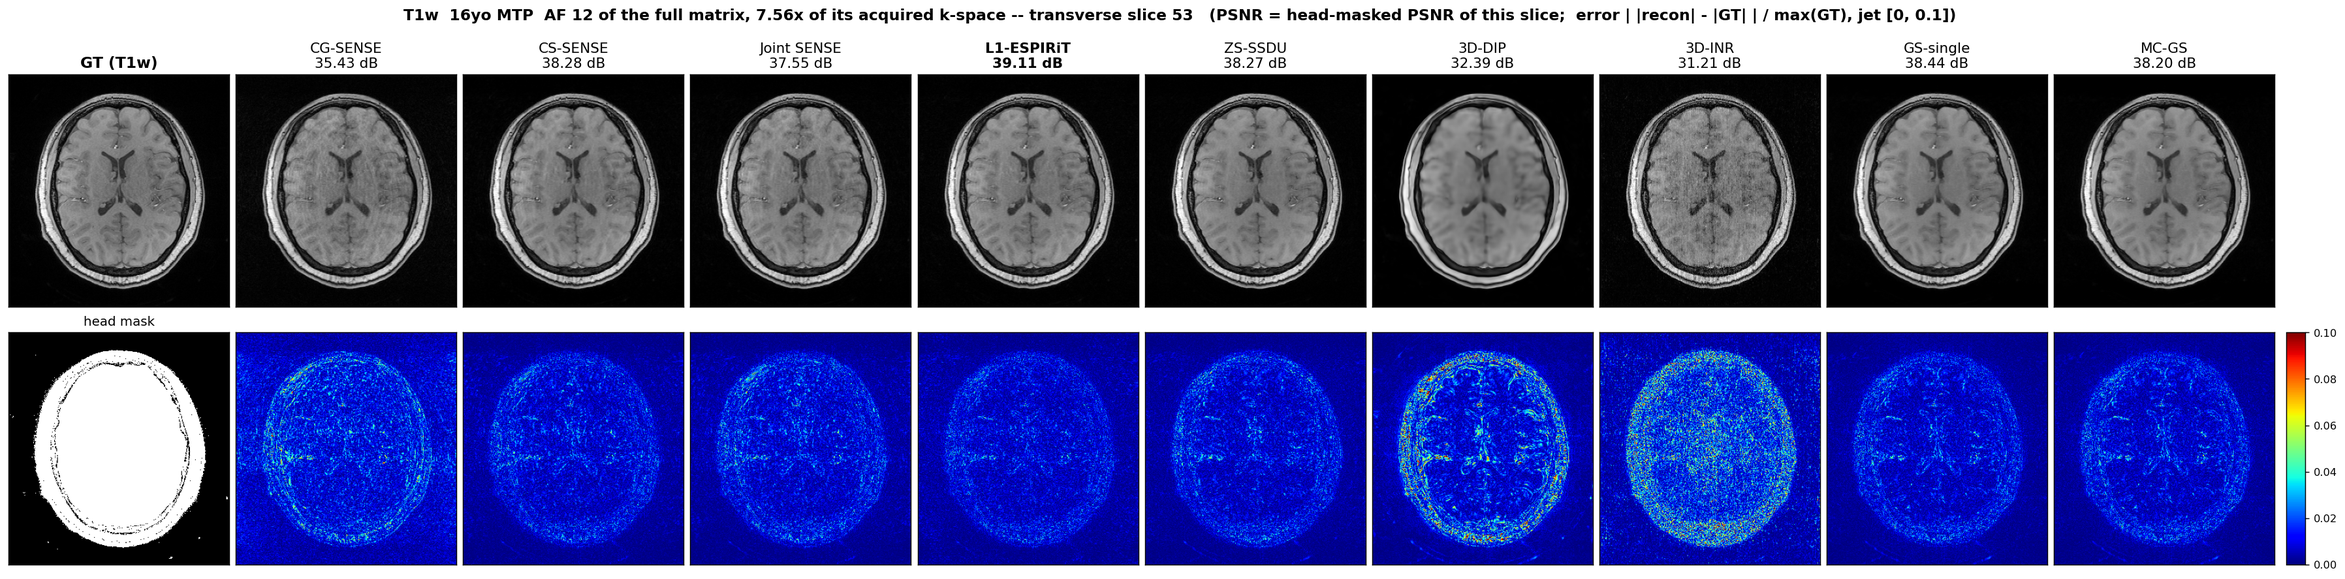
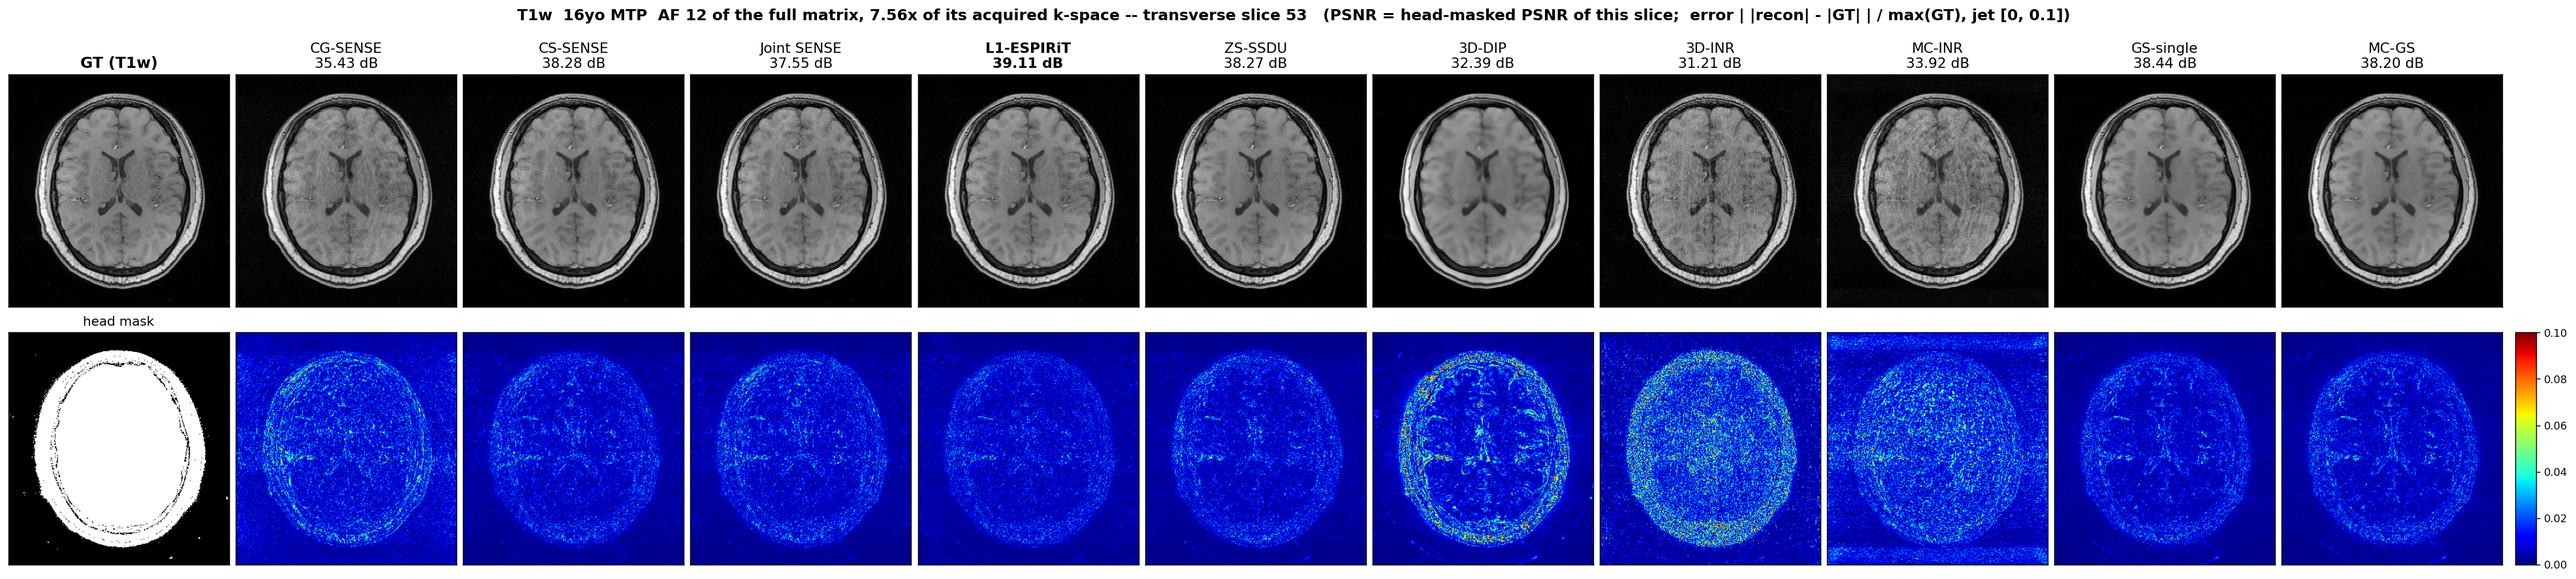
peds mtp af12: MC-INR in both tables and both figures; the topic README says ten arms
Head PSNR in the primary region: T1w 33.948, T2s 29.710 -- eighth of ten on both contrasts, above
3D-INR and 3D-DIP and below CG-SENSE, the position it also takes on the adult topics. Adding it
moved no bar: L1-ESPIRiT still sets all three T1w cells and GS-single all three T2s cells.

Both rescoring passes were re-run over all ten arms; the full-volume pass and each arm's own JSON
agree to 7e-6 over 100 values, so the primary table's numbers stand as before.

diff --git a/peds_tsc_mtp_af12_retro/scripts/fig_three_planes_compact.py b/peds_tsc_mtp_af12_retro/scripts/fig_three_planes_compact.py
@@ -3,7 +3,7 @@
 
   python scripts/fig_three_planes_compact.py --contrast T1w --slices <TRA> <COR> <SAG>
 
-Layout (user request 2026-09-11): per plane an image row (GT + the nine methods of fig_row_final.py) and an error
+Layout (user request 2026-09-11): per plane an image row (GT + the ten methods of fig_row_final.py) and an error
 row (|recon - GT| / max(GT), jet, fixed [0, 0.1]). The left cell of each error row is the sampling mask in that
 plane: the plane of the 3-D mask through the k-space centre, in the same orientation as the images (the readout,
 axis 0, is fully sampled, so the coronal and sagittal cuts are lines). Method names only above the top row; each
@@ -94,6 +94,7 @@ ARMS = [("cgsense", "CG-SENSE", R / f"recon/cgsense_{c}_complex.npy"),
         ("zsssdu", "ZS-SSDU", R / f"recon/zsssdu_{c}_complex.npy"),
         ("dip", "3D-DIP", R / f"recon/dip_{c}_complex.npy"),
         ("inr", "3D-INR", R / f"recon/inr_{c}_complex.npy"),
+        ("mcinr", "MC-INR", R / f"recon/mcinr_{c}_complex.npy"),
         (args.single_key, "GS-single", R / f"recon/{args.single_key}_{c}_mag.npy"),
         (args.mcgs_key, "MC-GS", R / f"recon/{args.mcgs_key}_{c}_mag.npy")]
 missing = [lab for _, lab, p in ARMS if p is None or not Path(p).exists()]

diff --git a/peds_tsc_mtp_af12_retro/README.md b/peds_tsc_mtp_af12_retro/README.md
@@ -1,4 +1,4 @@
-# 16-year-old TSC exam, 3D MTP Cartesian — stage 2: retrospective AF 12, nine-arm comparison
+# 16-year-old TSC exam, 3D MTP Cartesian — stage 2: retrospective AF 12, ten-arm comparison
 
 Opened 2026-09-13. Stage 1 (the reference k-space this study undersamples) is
 `../Peds_TSC_MTP_3D/`. Code: worktree `/data0/congcong/code/GS/mcgs_peds_wt`, branch `16yo-mtp`
@@ -79,6 +79,7 @@ zero target.
 | L1-ESPIRiT | the same k-space **plus** `bart pics -p data/pattern_union` | – |
 | ZS-SSDU | union in the DC block | Θ / Λ / Γ from Ω |
 | 3D-DIP, 3D-INR | union in the forward model | 95 / 5 from Ω |
+| MC-INR | union as the per-slice sampling plane, so Z enters as measured zeros | – |
 | GS-single, MC-GS | Ω as the mask, `known_zero_support: data/support_2d.h5` | – |
 
 Without the explicit `-p` pattern BART infers the pattern from nonzero entries and reads Z as
@@ -87,6 +88,26 @@ framework port: `known_zero_support` was added after the commit this branch was 
 it the trainer's estimator found nothing (`frac_z_used = 0.0000`) because the mask never lands outside
 the support. After the port, both channels report `frac_z_used = 0.3701` = 11702 / 31616 with
 `nonzero_in_z = 0` and `kz_energy = 0`.
+
+## The MC-INR arm (added 2026-09-14)
+
+The multi-contrast INR of Niessen et al. 2025 (MICCAI; reproduction repo
+`/data0/congcong/code/GS/mcinr_peds_wt`, branch `peds-mtp`), the same reproduction that ran on the
+adult T1+FLAIR topics, pointed at this line's data: one hash-grid network per readout position
+jointly outputs both contrasts, 200 epochs a slice, the paper's hyper-parameters unchanged, each
+contrast keeping its own ESPIRiT maps. It sees this topic's union mask, so the measured zeros reach
+it the way they reach every other arm. Nothing was tuned for this exam.
+
+Checks before the run: the repo's single-precision hybrid path (readout inverse FFT, then per-slice
+SENSE synthesis) reproduces this topic's ground truth to a maximum relative error of 2.0e-7 (T1w)
+and 2.5e-7 (T2s), and the peak of the acquired samples equals the peak of the fully sampled data, so
+the paper's normalisation and this topic's coincide (`mcinr/logs/check_real_data.json`). The run is
+320 slices in 945 s on a free A800; it is scored by the reproduction through **this topic's own**
+`t1t2_common.Pair`, after that gauge is re-checked against the recorded CG-SENSE row (`GAUGE OK`,
+`mcinr/logs/score_af12.json`), and registered by `scripts/register_mcinr_arm.py`.
+
+It lands eighth of ten on both contrasts — above 3D-DIP and 3D-INR, below CG-SENSE — which is where
+it landed on the adult topics too (eighth of eleven there).
 
 ## Evaluation
 
@@ -98,7 +119,7 @@ head, head HFEN as the LoG(σ 1.5) residual ratio, whole-volume PSNR / NMSE, sha
   (SPE 12..92). The outer 12 partitions at each end are the slab-oversampling margin, where the
   excitation profile has decayed to 6–10 % and the vendor exports nothing.
 - **Secondary table**: the full 104 partitions, taken from each arm's own JSON. `scripts/rescore.py --full`
-  reproduces it — 90 values across 18 arm/contrast pairs agree to 2e-4 — which is what licenses the
+  reproduces it — 100 values across 20 arm/contrast pairs agree to 7e-6 — which is what licenses the
   primary table's numbers.
 - `scripts/check_gauge.py` prints `GAUGE OK`: the shared module reproduces `recon_classical.py`'s nine
   metrics to the digit (differences 0.00e+00). `recon_classical.py` deliberately keeps its own
@@ -126,6 +147,7 @@ Retrospective AF 12.00 of the 31616-point phase-encode matrix (7.56x of the 1991
 | Joint SENSE (JTV) (λ 0.0007) | 36.898 | 0.9546 | 0.1139 | 39.888 | 0.00509 | 0.903 |
 | ZS-SSDU | 36.721 | 0.9609 | 0.1240 | 39.782 | 0.00521 | 0.994 |
 | CG-SENSE | 34.307 | 0.9339 | 0.1505 | 36.771 | 0.01043 | 0.871 |
+| MC-INR (Niessen 2025) | 33.948 | 0.9027 | 0.1576 | 35.905 | 0.01273 | 1.034 |
 | 3D-INR | 30.793 | 0.8453 | 0.1237 | 33.850 | 0.02043 | **1.393** |
 | 3D-DIP | 30.301 | 0.8678 | 0.2999 | 33.574 | 0.02178 | 0.667 |
 
@@ -140,6 +162,7 @@ Retrospective AF 12.00 of the 31616-point phase-encode matrix (7.56x of the 1991
 | Joint SENSE (JTV) (λ 0.0014) | 32.821 | 0.8911 | 0.2424 | 35.949 | 0.01298 | 0.794 |
 | CS-SENSE (TV, converged) (λ 0.001) | 32.763 | 0.8898 | 0.2438 | 35.904 | 0.01311 | 0.830 |
 | CG-SENSE | 30.598 | 0.8424 | 0.3179 | 32.877 | 0.02632 | 0.861 |
+| MC-INR (Niessen 2025) | 29.710 | 0.7981 | 0.3479 | 31.604 | 0.03529 | 1.017 |
 | 3D-DIP | 28.250 | 0.6997 | 0.4890 | 31.618 | 0.03518 | 0.465 |
 | 3D-INR | 28.012 | 0.6958 | 0.3080 | 29.855 | 0.05279 | **1.417** |
 
@@ -158,6 +181,7 @@ The same gauge over all 104 partitions, taken from each arm's own JSON; the cros
 | Joint SENSE (JTV) (λ 0.0007) | 36.982 | 0.9569 | 0.1138 | 40.292 | 0.00558 |
 | ZS-SSDU | 36.734 | 0.9623 | 0.1264 | 40.160 | 0.00575 |
 | CG-SENSE | 34.464 | 0.9376 | 0.1504 | 37.130 | 0.01156 |
+| MC-INR (Niessen 2025) | 34.174 | 0.9102 | 0.1555 | 36.249 | 0.01416 |
 | 3D-INR | 30.859 | 0.8521 | 0.1247 | 34.264 | 0.02236 |
 | 3D-DIP | 30.294 | 0.8677 | 0.3047 | 33.983 | 0.02385 |
 
@@ -172,6 +196,7 @@ The same gauge over all 104 partitions, taken from each arm's own JSON; the cros
 | ZS-SSDU | 32.941 | 0.8960 | 0.2430 | 36.689 | 0.01391 |
 | CS-SENSE (TV, converged) (λ 0.001) | 32.903 | 0.8908 | 0.2474 | 36.524 | 0.01445 |
 | CG-SENSE | 30.814 | 0.8421 | 0.3210 | 33.238 | 0.03080 |
+| MC-INR (Niessen 2025) | 29.930 | 0.7999 | 0.3519 | 31.984 | 0.04112 |
 | 3D-DIP | 28.424 | 0.7053 | 0.4950 | 32.321 | 0.03805 |
 | 3D-INR | 28.126 | 0.6930 | 0.3146 | 29.993 | 0.06502 |
 
@@ -201,7 +226,10 @@ The same gauge over all 104 partitions, taken from each arm's own JSON; the cros
    prior for this pair.
 4. **The learned arms are unremarkable here.** ZS-SSDU early-stops at epoch 43 (29 min, against 5 h on
    the adult AF16 data) and lands mid-table. 3D-DIP and 3D-INR are 6–8 dB behind, as in every earlier
-   topic; they are completeness, not competition.
+   topic, and MC-INR sits between them and CG-SENSE; they are completeness, not competition. MC-INR
+   is the only other arm here with a joint prior, and it is 3.9 dB (T1w) and 4.5 dB (T2s) behind
+   MC-GS, so nothing in this table argues that joint reconstruction as such fails on this pair —
+   only that a shared-geometry prior buys nothing over the same method run per contrast.
 5. The recipe was transferred, not tuned. Whether a loop tuned on this subject closes the T1w gap is
    open and is a separate decision.
 
@@ -217,12 +245,14 @@ one, which was verified slice-for-slice against the vendor DICOM).
 | file | what |
 |---|---|
 | `mask_af12.png` | Ω, the acquired support, Z and Ω ∪ Z on the PE x SPE plane |
-| `peds_af12_<c>_row_axis2_53.png` | the nine arms in one row on the transverse slice, error maps below |
+| `peds_af12_<c>_row_axis2_53.png` | the ten arms in one row on the transverse slice, error maps below |
 | `peds_af12_<c>_row3planes_compact_53_160_152_headerr.png` | three planes, per-panel head PSNR / SSIM / NMSE, head-only error maps |
 
 ## Files
 
 ```
+mcinr/         the MC-INR reproduction's own outputs: recon/af12/ (the network images and the
+               gauge-unit volumes), logs/ (the real-data check, the score and its gauge re-check)
 data/          symlinks to the reference dataset; mask_af12_2d.mat (Ω), mask_af12_3d.h5,
                mask_af12_union_3d.h5 (Ω ∪ Z), support_2d.h5, pattern_union.{cfl,hdr}, mask_draws/
 scripts/       prep_mask_draws.m, prep_mask.py, fig_mask.py, bootstrap.sh, peds_queue.txt,
